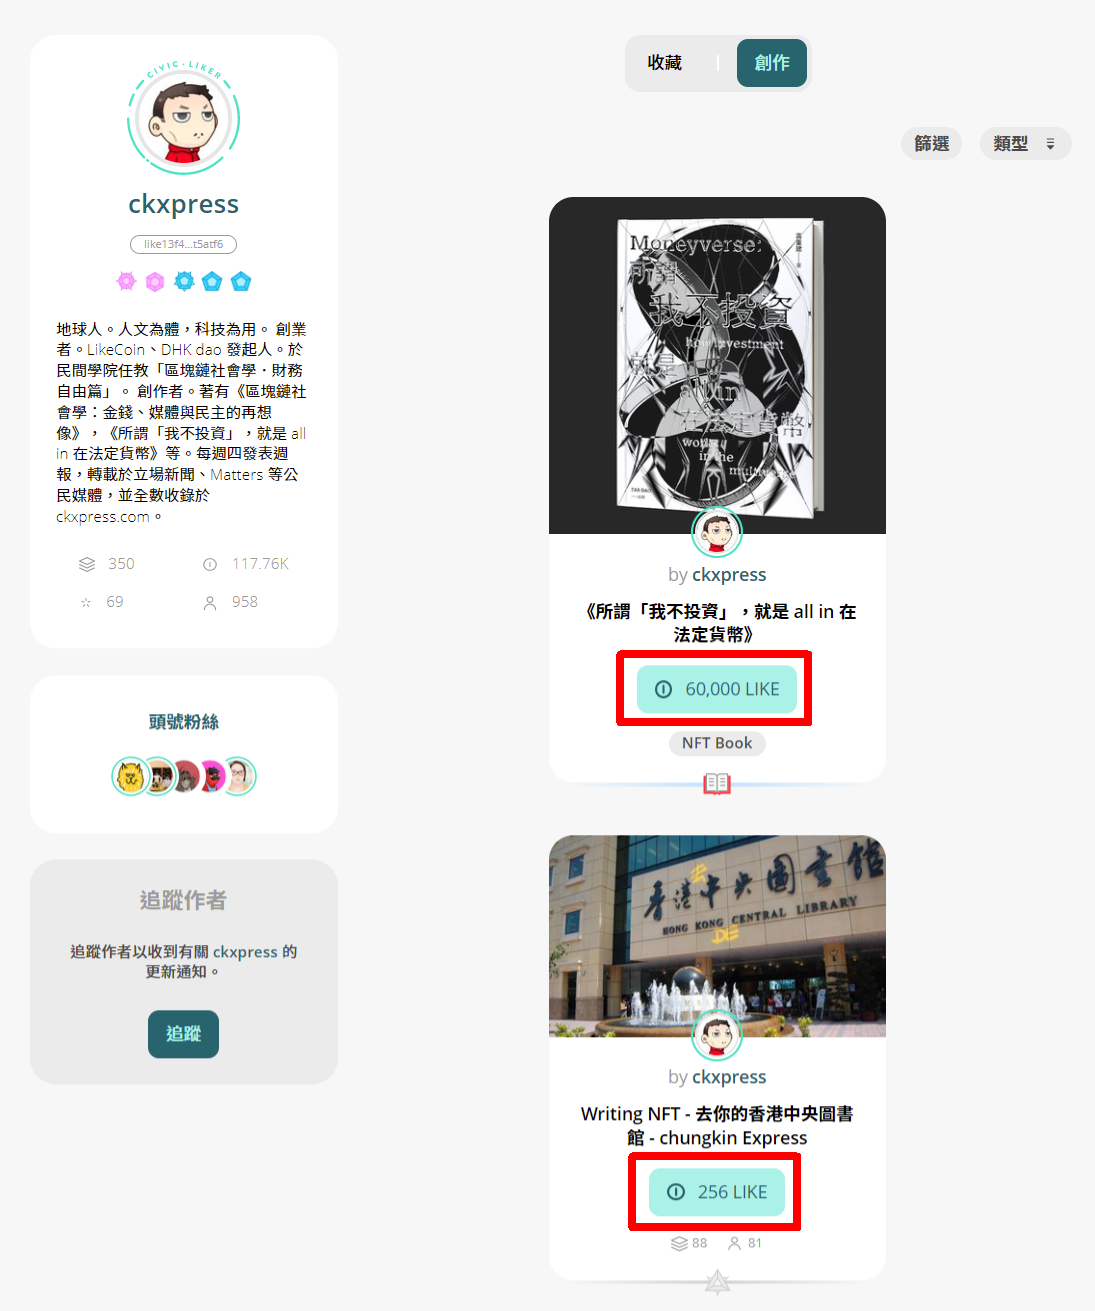
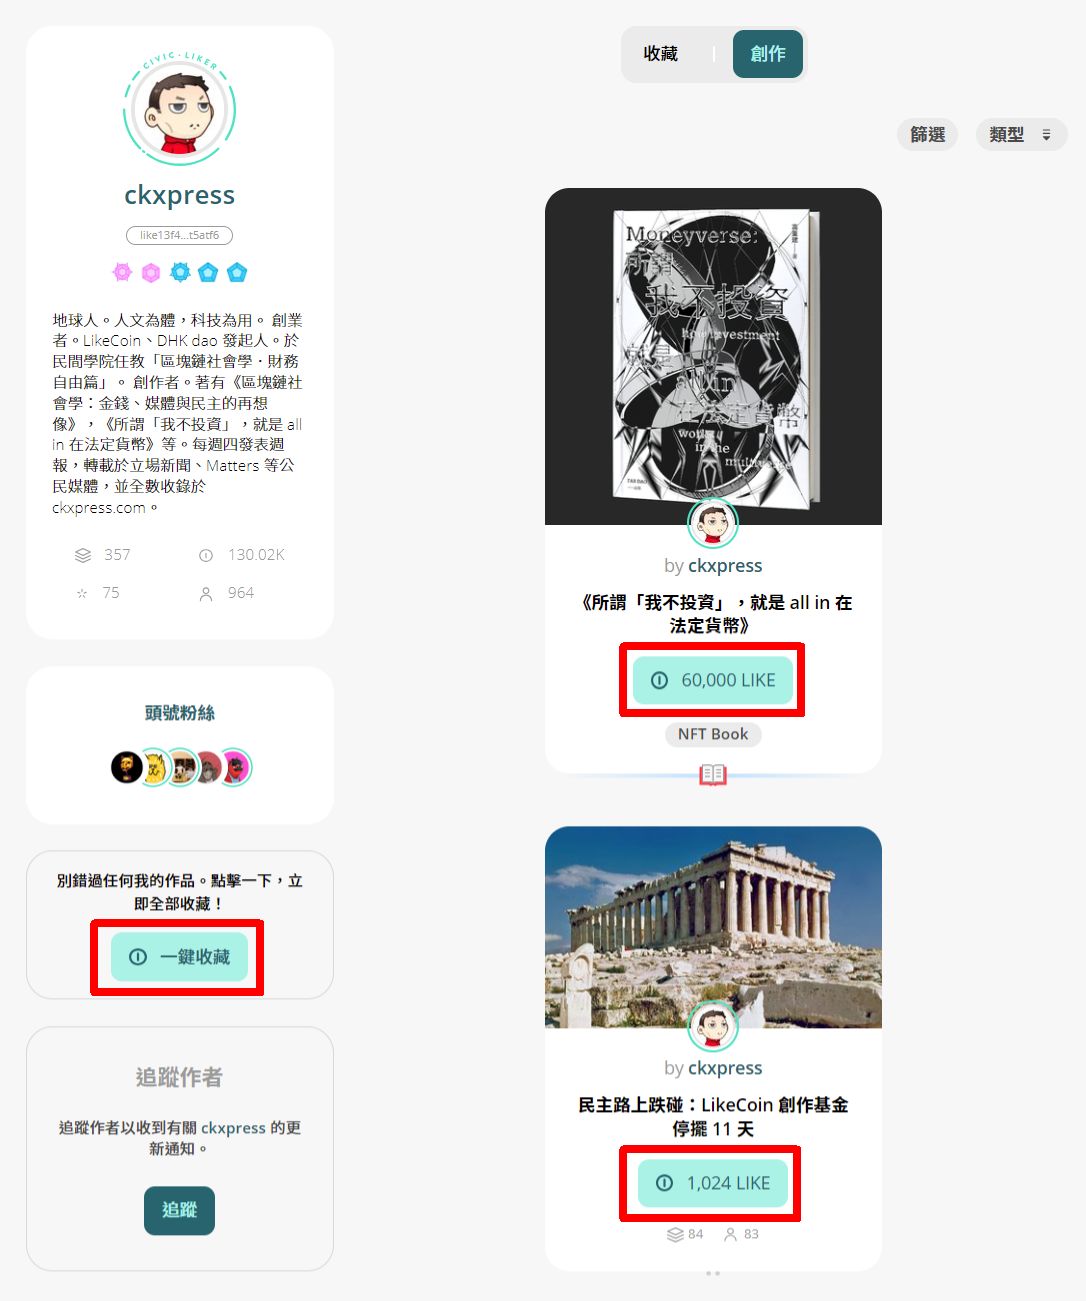
GITBOOK-4490: NFT 展示櫃

diff --git a/general-guides/writing-nft/collect-writing-nft/README.md b/general-guides/writing-nft/collect-writing-nft/README.md
@@ -40,7 +40,7 @@ description: 如何收藏 Writing NFT
 
 <figure><img src="../../../.gitbook/assets/Buy NFT 2.png" alt=""><figcaption><p>NFT 系列資訊頁面</p></figcaption></figure>
 
-又或者到作者的 [NFT 展示櫃](nft-portfolio.md)（網址為 https://liker.land/\[錢包地址] ）點 NFT 當前價格；
+又或者到作者的 [NFT 展示櫃](nft-portfolio.md)（網址為 https://liker.land/\[錢包地址] ）點 NFT 當前價格或「[一鍵收藏](./#collect-all)」；
 
 <figure><img src="../../../.gitbook/assets/Buy NFT 3.png" alt=""><figcaption><p>NFT 展示櫃</p></figcaption></figure>
 
